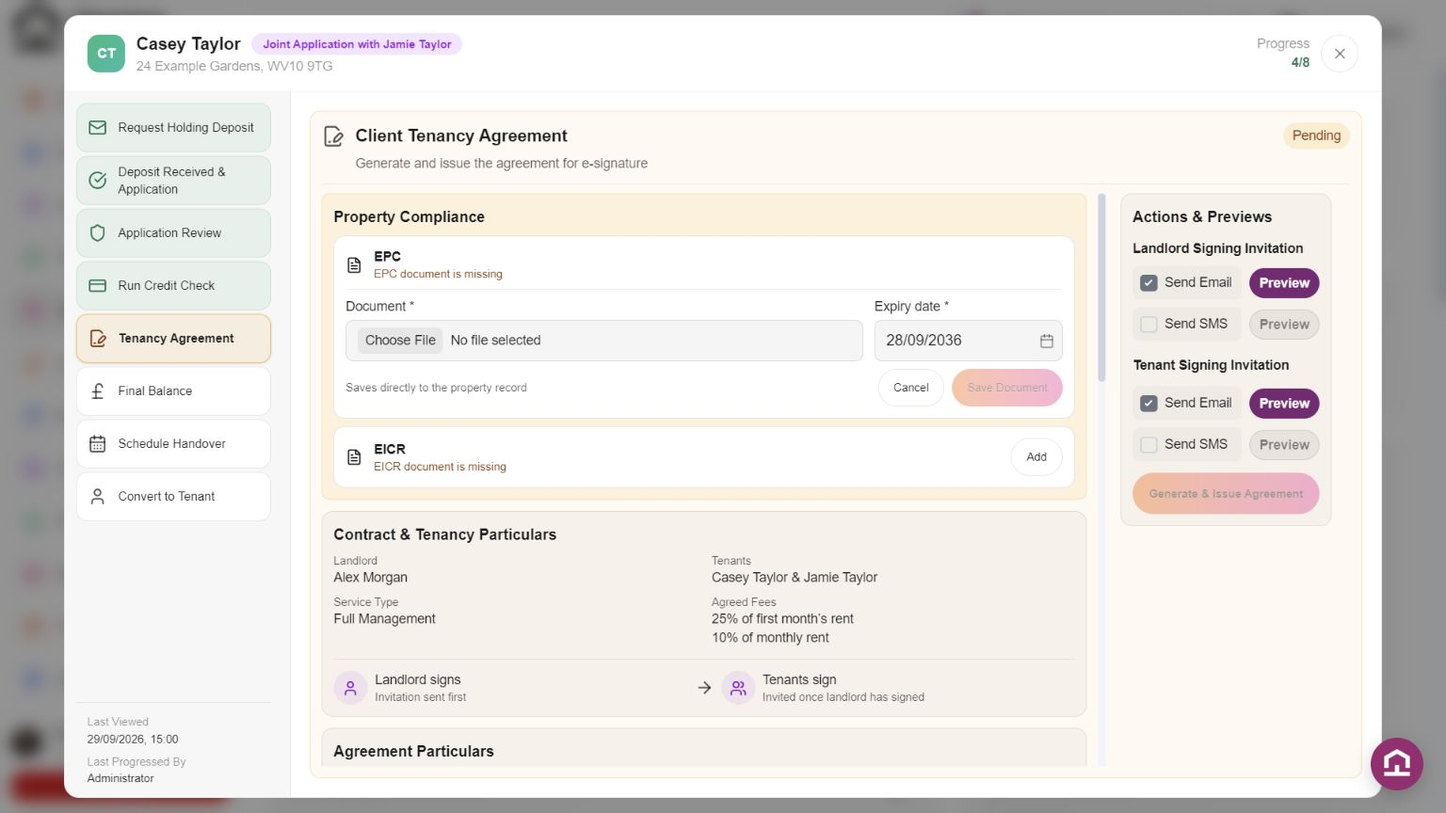
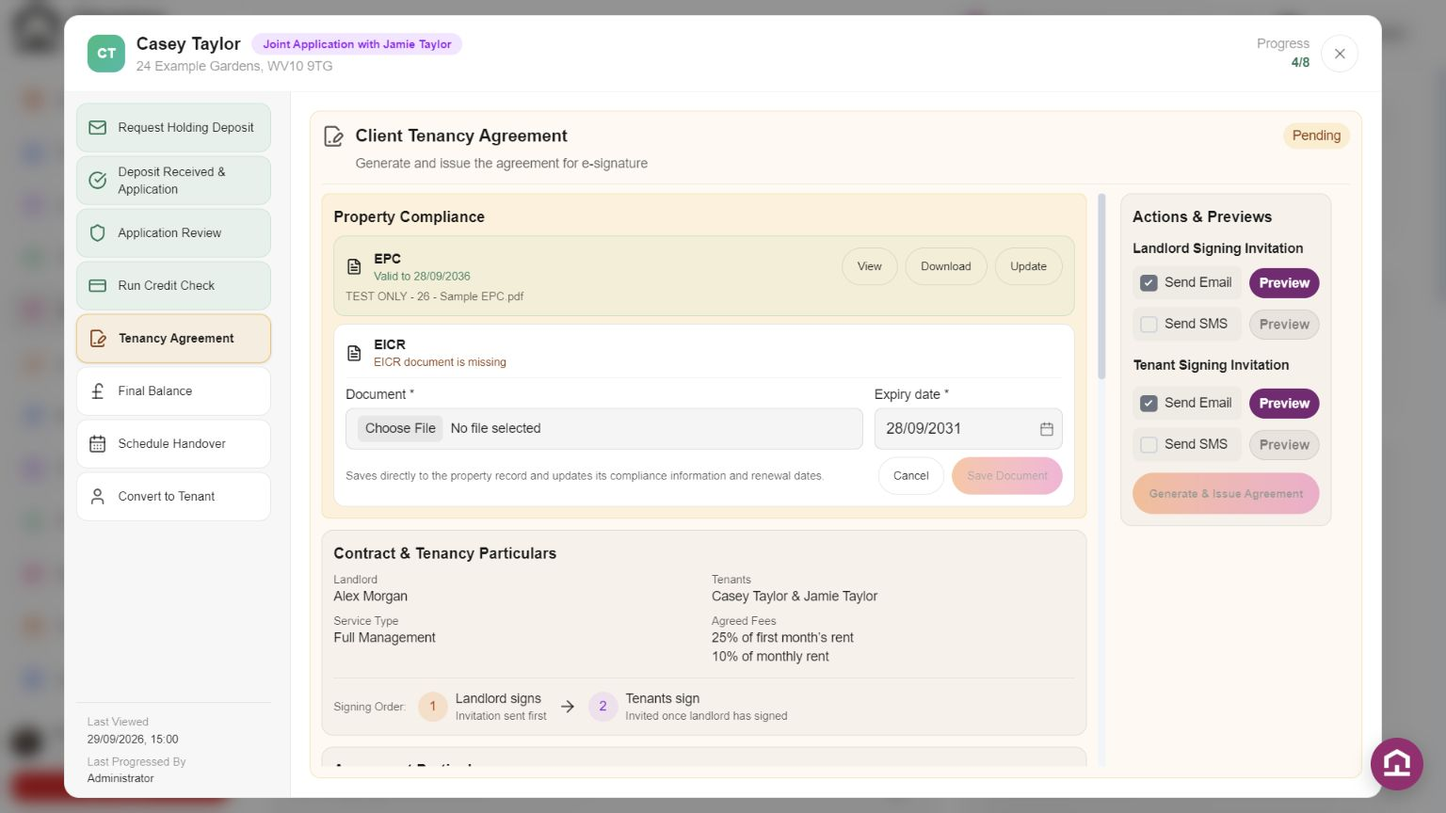
Refine onboarding agreement previews and correct portfolio payment routes

Changed region(s): [[0.2188, 0.2812, 0.75, 0.9375], [0.4375, 0.6875, 0.625, 0.9062]]

diff --git a/frontend/src/components/ui/OnboardingWizard.tsx b/frontend/src/components/ui/OnboardingWizard.tsx
@@ -1064,7 +1064,7 @@ export default function OnboardingWizard({ enquiryId, enquiry, properties, users
   return (
     <div className="fixed inset-0 bg-[var(--overlay-bg)] backdrop-blur-sm flex items-center justify-center z-50 p-4" onClick={event => { if(event.target===event.currentTarget)onClose(); }}>
       <div className="bg-[var(--bg-card)] rounded-2xl border border-[var(--border-input)] onboarding-dialog w-full max-w-[1400px] max-h-[calc(100dvh-2rem)] overflow-hidden flex flex-col" style={{height:'calc(100dvh - 2rem)'}} onClick={e => e.stopPropagation()}>
-        {serviceGate&&<div role="note" className="shrink-0 flex flex-wrap xl:flex-nowrap items-center justify-center gap-x-3 gap-y-2 px-4 py-2 bg-red-500/10 text-[13px] leading-5 text-red-700 dark:text-red-400 border-b border-red-500/20"><AlertTriangle size={18} className="shrink-0" aria-hidden="true"/><p className="min-w-0 text-center xl:whitespace-nowrap">Landlord service contract needs signing before onboarding can be completed or an AST agreement issued.</p><Link className="shrink-0 xl:ml-auto whitespace-nowrap rounded-full border border-red-500/30 bg-[var(--bg-card)] px-3 py-1.5 text-xs font-semibold hover:bg-red-500/10 focus-visible:outline-2 focus-visible:outline-offset-2 focus-visible:outline-red-600" to={`/properties/${serviceGate.propertyId}`} onClick={onClose}>Click to open the properties contract</Link></div>}
+        {serviceGate&&<div role="note" className="shrink-0 flex flex-wrap xl:flex-nowrap items-center justify-center gap-x-3 gap-y-2 px-4 py-2 bg-red-500/10 text-[13px] leading-5 text-red-700 dark:text-red-400 border-b border-red-500/20"><AlertTriangle size={18} className="shrink-0" aria-hidden="true"/><p className="min-w-0 text-center xl:whitespace-nowrap">Landlord service contract needs signing before onboarding can be completed or a tenancy agreement issued.</p><Link className="shrink-0 xl:ml-auto whitespace-nowrap rounded-full border border-red-500/30 bg-[var(--bg-card)] px-3 py-1.5 text-xs font-semibold hover:bg-red-500/10 focus-visible:outline-2 focus-visible:outline-offset-2 focus-visible:outline-red-600" to={`/properties/${serviceGate.propertyId}`} onClick={onClose}>Click to open the properties contract</Link></div>}
         {/* Header */}
         <div className="shrink-0 flex items-center gap-3 px-6 py-4 border-b border-[var(--border-subtle)]">
           <div className="w-10 h-10 shrink-0 rounded-xl bg-gradient-to-br from-emerald-500 to-teal-500 flex items-center justify-center text-white font-bold text-sm">
@@ -1144,6 +1144,7 @@ export default function OnboardingWizard({ enquiryId, enquiry, properties, users
           {/* Step 6: Tenancy Agreement */}
           <StepCard idx={5} step={steps[5]} {...stepCardProps} actions={allPreviousComplete(5) && <>
                 {agreement && agreement.status !== 'completed' && <div className="flex flex-wrap gap-2">
+                  {agreementCompliance?.agreementType==='internal'&&<p className="text-sm font-semibold">Tenant Signing Invitation</p>}
                   <DeliveryChoices email={agreementSendEmail} sms={agreementSendSms} onEmail={setAgreementSendEmail} onSms={setAgreementSendSms} previewEmail={()=>void previewAgreementEmail()} previewSms={()=>setSmsPreview(renderSmsPreview(agreementSmsMessage))}/>
 
 
@@ -1155,6 +1156,7 @@ export default function OnboardingWizard({ enquiryId, enquiry, properties, users
                 </div>}
                 {agreement&&<Button variant="outline" size="sm" disabled={saving} onClick={() => {agreementDirty.current=false;void fetchAgreement();setEditingAgreement(value => !value);}}>{editingAgreement ? 'Cancel Editing' : 'Edit Agreement'}</Button>}
 {showAgreementForm && <>                  {agreementCompliance?.agreementType==='client'&&<div className="space-y-2"><p className="text-sm font-semibold">Landlord Signing Invitation</p><DeliveryChoices email={landlordSendEmail} sms={landlordSendSms} onEmail={setLandlordSendEmail} onSms={setLandlordSendSms} previewEmail={async()=>{try{const p=await api.post(`/api/tenant-enquiries/${enquiryId}/landlord-agreement-preview`,{tenant_delivery:agreementSendEmail||agreementSendSms});setHoldingEmailPreview(p);}catch(e){setReviewError(String(e));}}} previewSms={async()=>{try{const p=await api.post(`/api/tenant-enquiries/${enquiryId}/landlord-agreement-preview`,{});setSmsPreview(p.sms);}catch(e){setReviewError(String(e));}}}/><p className="text-sm font-semibold pt-2">Tenant Signing Invitation</p></div>}
+                  {agreementCompliance?.agreementType==='internal'&&<p className="text-sm font-semibold">Tenant Signing Invitation</p>}
                   <DeliveryChoices email={agreementSendEmail} sms={agreementSendSms} onEmail={setAgreementSendEmail} onSms={setAgreementSendSms} previewEmail={()=>void previewAgreementEmail()} previewSms={()=>setSmsPreview(renderSmsPreview(agreementSmsMessage))}/>
                   <Button className="self-start" variant="gradient" size="sm" onClick={issueAgreement} disabled={saving || complianceLoading || agreementCompliance?.ready !== true || !agreementDetailsComplete}>{saving ? 'Generating...' : editingAgreement ? 'Save Changes & Notify Everyone' : 'Generate & Issue Agreement'}</Button>
 </>}</>}>
@@ -1188,16 +1190,17 @@ export default function OnboardingWizard({ enquiryId, enquiry, properties, users
                   <section aria-label="Contract & Tenancy Particulars" className="rounded-xl border border-[var(--border-input)] bg-[var(--bg-subtle)] p-3 space-y-2">
                     <h5 className="text-base font-semibold">Contract &amp; Tenancy Particulars</h5>
                     <dl className="grid grid-cols-1 sm:grid-cols-2 gap-x-4 gap-y-2 text-sm">
-                      <div><dt className="text-xs text-[var(--text-secondary)]">Landlord</dt><dd>{agreementCompliance?.landlordName||'Not recorded'}</dd></div>
+                      {agreementCompliance?.agreementType==='client'&&<div><dt className="text-xs text-[var(--text-secondary)]">Landlord</dt><dd>{agreementCompliance.landlordName||'Not recorded'}</dd></div>}
                       <div><dt className="text-xs text-[var(--text-secondary)]">{enquiry.joint_partner_id?'Tenants':'Tenant'}</dt><dd>{[name,enquiry.joint_partner_id?agreementCompliance?.jointApplicant?.name:null].filter(Boolean).join(' & ')}</dd></div>
                       <div><dt className="text-xs text-[var(--text-secondary)]">Service Type</dt><dd>{agreementCompliance?.agreementType==='internal'?'Fleming Lettings property':({let_only:'Let Only',rent_collection:'Rent Collection',full_management:'Full Management'}[agreementCompliance?.serviceType||'']||'Not recorded')}</dd></div>
                       {agreementCompliance?.agreementType==='client'&&<div><dt className="text-xs text-[var(--text-secondary)]">Agreed Fees</dt><dd>{agreementCompliance.fees?.setupPercent!=null?`${Number(agreementCompliance.fees.setupPercent).toLocaleString('en-GB')}% of first month’s rent`:'Set-up fee not recorded'}{agreementCompliance.serviceType!=='let_only'&&<span className="block">{agreementCompliance.fees?.monthlyPercent!=null?`${Number(agreementCompliance.fees.monthlyPercent).toLocaleString('en-GB')}% of monthly rent`:'Ongoing fee not recorded'}</span>}</dd></div>}
                     </dl>
                     {agreementCompliance?.agreementType==='client'&&<div aria-label="Signing process: landlord signs first, then tenants are invited to sign" className="flex flex-col sm:flex-row sm:items-center gap-3 border-t border-[var(--border-subtle)] pt-3 mt-3 text-sm">
-                      <span className="text-xs font-medium text-[var(--text-secondary)] shrink-0">Signing Order:</span><div className="flex items-center gap-2"><span className="flex h-8 w-8 shrink-0 items-center justify-center rounded-full bg-orange-500/15 text-orange-700 dark:text-orange-300" aria-hidden="true">1</span><div><span className="block font-medium">Landlord signs</span><span className="block text-xs text-[var(--text-secondary)]">Invitation sent first</span></div></div>
+                      <span className="text-sm font-semibold text-[var(--text-primary)] shrink-0">Signing Order:</span><div className="flex items-center gap-2"><span className="flex h-8 w-8 shrink-0 items-center justify-center rounded-full bg-orange-500/15 text-orange-700 dark:text-orange-300" aria-hidden="true">1</span><div><span className="block font-medium">Landlord signs</span><span className="block text-xs text-[var(--text-secondary)]">Invitation sent first</span></div></div>
                       <ArrowRight size={20} aria-hidden="true" className="ml-2 sm:ml-0 shrink-0 rotate-90 sm:rotate-0 text-[var(--text-secondary)]"/>
                       <div className="flex items-center gap-2"><span className="flex h-8 w-8 shrink-0 items-center justify-center rounded-full bg-purple-500/10 text-purple-700 dark:text-purple-300" aria-hidden="true">2</span><div><span className="block font-medium">{enquiry.joint_partner_id?'Tenants sign':'Tenant signs'}</span><span className="block text-xs text-[var(--text-secondary)]">Invited once landlord has signed</span></div></div>
                     </div>}
+                    {agreementCompliance?.agreementType==='internal'&&<p role="note" className="rounded-lg border border-purple-500/15 bg-purple-500/5 px-3 py-2.5 text-sm leading-relaxed">For Fleming Lettings’ own properties, the initial rental payment, holding deposit and future rent are paid directly into Fleming Lettings’ business bank account, not the client money account.</p>}
                     {!agreementServiceComplete&&<p className="text-sm text-[var(--onboarding-warning)]">Set the service type on the property before generating the agreement.</p>}
                   </section>
                   <section aria-label="Agreement Particulars" className="rounded-xl border border-[var(--border-input)] bg-[var(--bg-subtle)] p-3 space-y-3"><h5 className="text-base font-semibold">Agreement Particulars</h5>

diff --git a/frontend/src/components/ClientAgreementDetails.tsx b/frontend/src/components/ClientAgreementDetails.tsx
@@ -10,15 +10,15 @@ type State={landlordId:number;isCompany:boolean;defaults:Details;details:Details
 const emptyAccount:Account={accountName:'',sortCode:'',accountNumber:'',bankName:''};
 const accountsMatch=(a:Account,b:Account|null)=>!!b&&a.accountName.trim()===b.accountName.trim()&&a.sortCode.replace(/\D/g,'')===b.sortCode.replace(/\D/g,'')&&a.accountNumber===b.accountNumber;
 const validAccount=(account:Account)=>!!account.accountName.trim()&&/^\d{6}$/.test(account.sortCode.replace(/\D/g,''))&&/^\d{8}$/.test(account.accountNumber);
-const defaultInstructions=(serviceType:string)=>serviceType==='let_only'?'Initial rental payment and holding deposit is paid into Fleming Lettings company account — not our client money account. Future payments will then be paid directly to the Landlord’s nominated account below.':'Initial rental payment and holding deposit is paid into Fleming Lettings client money account. Future payments continue to be paid into the client money account.';
+const defaultInstructions=(serviceType:string)=>serviceType==='let_only'?'Initial rental payment and holding deposit is paid into Fleming Lettings client money account. Future payments will then be paid directly to the Landlord’s nominated account below.':'Initial rental payment and holding deposit is paid into Fleming Lettings client money account. Future payments continue to be paid into the client money account.';
 
 export default function ClientAgreementDetails({enquiryId,onReady}:{enquiryId:number;onReady:(ready:boolean)=>void}){
  const dirty=useRef(false),record=useRef(enquiryId),api=useApi();
  const [state,setState]=useState<State|null>(null),[details,setDetails]=useState<Details|null>(null),[saved,setSaved]=useState(false),[busy,setBusy]=useState(false),[error,setError]=useState('');
  const [account,setAccount]=useState<Account>(emptyAccount),[paymentConfirmed,setPaymentConfirmed]=useState(false),[editingAccount,setEditingAccount]=useState(false),[confirmOverride,setConfirmOverride]=useState(false),[overrideChecked,setOverrideChecked]=useState(false);
  const [sameServiceAddress,setSameServiceAddress]=useState(true);
- const [paymentInstructions,setPaymentInstructions]=useState(''),[showCompanyAccounts,setShowCompanyAccounts]=useState(false);
- const load=(value:State)=>{setState(value);setDetails({...value.details,bankAccountName:'',bankSortCode:'',bankAccountNumber:''});setSameServiceAddress(value.details.serviceAddress===value.details.landlordAddress);setAccount(value.paymentAccount||value.suggestedPaymentAccount||emptyAccount);setPaymentInstructions(value.paymentInstructions||defaultInstructions(value.serviceType));setPaymentConfirmed(value.paymentConfirmed);setEditingAccount(false);setSaved(value.saved);onReady(value.ready&&value.saved);};
+ const [showCompanyAccounts,setShowCompanyAccounts]=useState(false);
+ const load=(value:State)=>{setState(value);setDetails({...value.details,bankAccountName:'',bankSortCode:'',bankAccountNumber:''});setSameServiceAddress(value.details.serviceAddress===value.details.landlordAddress);setAccount(value.paymentAccount||value.suggestedPaymentAccount||emptyAccount);setPaymentConfirmed(value.paymentConfirmed);setEditingAccount(false);setSaved(value.saved);onReady(value.ready&&value.saved);};
  useEffect(()=>{let active=true;if(record.current!==enquiryId){dirty.current=false;record.current=enquiryId;}if(!dirty.current)onReady(false);api.get(`/api/tenant-enquiries/${enquiryId}/client-agreement-details`).then(value=>{if(active&&!dirty.current)load(value);}).catch(e=>{if(active)setError(String(e));});return()=>{active=false;};
  // eslint-disable-next-line react-hooks/exhaustive-deps
  },[api,enquiryId,onReady]);
@@ -27,7 +27,7 @@ export default function ClientAgreementDetails({enquiryId,onReady}:{enquiryId:nu
  const refresh=async()=>{setBusy(true);try{const value=await api.get(`/api/tenant-enquiries/${enquiryId}/client-agreement-details`);setState(value);setDetails(value.defaults);setSameServiceAddress(value.defaults.serviceAddress===value.defaults.landlordAddress);dirty.current=true;setSaved(false);onReady(false);setError('');}catch(e){setError(String(e));}finally{setBusy(false);}};
  const save=async(confirmPayment=paymentConfirmed,overrideApproved=false)=>{
   if(!details)return;setBusy(true);setError('');
-  try{const value=await api.put(`/api/tenant-enquiries/${enquiryId}/client-agreement-details`,{...details,payment_account:account,payment_instructions:paymentInstructions,payment_confirmed:confirmPayment,payment_override_approved:overrideApproved||(paymentConfirmed&&!accountsMatch(account,state?.suggestedPaymentAccount||null))});dirty.current=false;load(value);setConfirmOverride(false);}
+  try{const value=await api.put(`/api/tenant-enquiries/${enquiryId}/client-agreement-details`,{...details,payment_account:account,payment_confirmed:confirmPayment,payment_override_approved:overrideApproved||(paymentConfirmed&&!accountsMatch(account,state?.suggestedPaymentAccount||null))});dirty.current=false;load(value);setConfirmOverride(false);}
   catch(e){setError(e instanceof Error?e.message:String(e));}finally{setBusy(false);}
  };
  const confirmAccount=()=>{if(!state)return;if(!accountsMatch(account,state.suggestedPaymentAccount)){setOverrideChecked(false);setConfirmOverride(true);}else void save(true);};
@@ -48,9 +48,8 @@ export default function ClientAgreementDetails({enquiryId,onReady}:{enquiryId:nu
    </fieldset>}
   </section>
   <section aria-label="Payment Account Confirmation" className={`rounded-xl border p-3 space-y-3 ${paymentConfirmed?'border-emerald-500/25 bg-emerald-500/5':'border-[var(--border-input)] bg-[var(--bg-subtle)]'}`}>
-   <div className="flex items-center justify-between gap-2"><h5 className="text-base font-semibold">Payment Account Confirmation</h5>{paymentConfirmed&&<CheckCircle size={18} className="text-[var(--onboarding-success)]"/>}</div>
-   <label className="block text-sm">Payment Instructions<textarea aria-label="Payment Instructions" rows={4} maxLength={2000} disabled={busy||!state} value={paymentInstructions} onChange={e=>{dirty.current=true;setPaymentInstructions(e.target.value);setPaymentConfirmed(false);onReady(false);}} className="mt-1 block w-full resize-y rounded-lg border border-[var(--border-input)] bg-[var(--bg-input)] px-3 py-2 text-sm leading-relaxed"/></label>
-   <div className="flex justify-end"><Button size="sm" variant="outline" disabled={!state?.companyAccounts} onClick={()=>setShowCompanyAccounts(true)}>View Company Account Details</Button></div>
+   <div className="flex flex-wrap items-center justify-between gap-2"><h5 className="text-base font-semibold flex items-center gap-2">Payment Account Confirmation{paymentConfirmed&&<CheckCircle size={18} className="text-[var(--onboarding-success)]"/>}</h5><button type="button" className="ml-auto rounded-lg bg-[#742878] px-3 py-2 text-xs font-medium text-white hover:bg-[#632268] focus-visible:outline-2 focus-visible:outline-offset-2 focus-visible:outline-purple-500 disabled:opacity-40" disabled={!state?.companyAccounts} onClick={()=>setShowCompanyAccounts(true)}>View Company Account Details</button></div>
+   {state&&<p role="note" className="rounded-lg border border-purple-500/15 bg-purple-500/5 px-3 py-2.5 text-sm leading-relaxed">{defaultInstructions(state.serviceType)}</p>}
    <fieldset disabled={busy||!editingAccount} className="grid grid-cols-1 sm:grid-cols-2 gap-3">
     <Input label="Account Name *" value={account.accountName} onChange={v=>changeAccount('accountName',v)}/><Input label="Bank Name" value={account.bankName} onChange={v=>changeAccount('bankName',v)}/><Input label="Sort Code *" value={account.sortCode} onChange={v=>changeAccount('sortCode',v.replace(/\D/g,'').slice(0,6).match(/.{1,2}/g)?.join('-')||'')}/><Input label="Account Number *" value={account.accountNumber} onChange={v=>changeAccount('accountNumber',v.replace(/\D/g,'').slice(0,8))}/>
    </fieldset>

diff --git a/backend/src/client-agreement-details.ts b/backend/src/client-agreement-details.ts
@@ -45,7 +45,7 @@ export async function clientAgreementContext(enquiryId:number){
  const paymentOverride=Boolean(paymentAccount&&stored?.paymentConfirmation?.override);
  const defaultAccountApproved=paymentRoute!=='landlord'||Boolean(sourceBank?.approved_at&&sourceBank?.landlord_approved_at);
  const paymentReady=Boolean(paymentAccount&&(paymentOverride||defaultAccountApproved));
- return {propertyId:enquiry.service_property_id,serviceAgreementSigned:!!service,serviceAgreementReady:!!enquiry.service_ready,servicePaymentRoute:service?.payment_route,serviceSetupFee:service?.setup_fee,serviceMonthlyFee:service?.monthly_fee,bankOverride:hasOverride,enquiryId:canonicalId,landlordId:enquiry.landlord_id,enabled:enquiry.landlord_type!=='internal',serviceType:enquiry.service_type,isCompany,defaults,details,directors,bank:bank||null,saved:matchingRecord,paymentRoute,suggestedPaymentAccount,paymentAccount:paymentAccount||suggestedPaymentAccount,paymentConfirmed:paymentReady,paymentOverride,defaultAccountApproved,paymentInstructions:matchingRecord&&stored?.paymentInstructions||defaultAgreementPaymentInstructions(enquiry.service_type),companyAccounts:{business:company.operatingAccount,clientMoney:company.clientAccount,cmpNumber:company.cmp.number},ready:matchingRecord&&!validateClientDetails(details,isCompany)&&paymentReady};
+ return {propertyId:enquiry.service_property_id,serviceAgreementSigned:!!service,serviceAgreementReady:!!enquiry.service_ready,servicePaymentRoute:service?.payment_route,serviceSetupFee:service?.setup_fee,serviceMonthlyFee:service?.monthly_fee,bankOverride:hasOverride,enquiryId:canonicalId,landlordId:enquiry.landlord_id,enabled:enquiry.landlord_type!=='internal',serviceType:enquiry.service_type,isCompany,defaults,details,directors,bank:bank||null,saved:matchingRecord,paymentRoute,suggestedPaymentAccount,paymentAccount:paymentAccount||suggestedPaymentAccount,paymentConfirmed:paymentReady,paymentOverride,defaultAccountApproved,paymentInstructions:defaultAgreementPaymentInstructions(enquiry.service_type),companyAccounts:{business:company.operatingAccount,clientMoney:company.clientAccount,cmpNumber:company.cmp.number},ready:matchingRecord&&!validateClientDetails(details,isCompany)&&paymentReady};
 }
 export function registerClientAgreementDetails(app:Express){
  app.get('/api/landlords/:id/bank-details',authMiddleware,requirePermission('staff'),async(req,res)=>{
@@ -72,8 +72,6 @@ export function registerClientAgreementDetails(app:Express){
   const state=await clientAgreementContext(Number(req.params.id));if(!state?.enabled)return res.status(409).json({error:'Client details require an external landlord'});
   const details=Object.fromEntries(Object.keys(state.defaults).map(key=>[key,String(req.body[key]??'').trim().slice(0,1000)])) as ClientDetails;
   const error=validateClientDetails(details,state.isCompany);if(error)return res.status(400).json({error});
-  const paymentInstructions=String(req.body.payment_instructions??state.paymentInstructions).trim();
-  if(!paymentInstructions||paymentInstructions.length>2000)return res.status(400).json({error:'Enter payment instructions of up to 2,000 characters'});
   if(details.bankAccountName&&req.body.bank_override_approved!==true)return res.status(400).json({error:'Confirm the alternative bank details for this tenancy'});
   let paymentConfirmation=null;
   if(req.body.payment_confirmed===true){
@@ -84,7 +82,7 @@ export function registerClientAgreementDetails(app:Express){
    paymentConfirmation={account,override,serviceType:state.serviceType,confirmedAt:new Date().toISOString(),confirmedBy:req.user.id};
   }
   const client=await pool.connect();try{await client.query('BEGIN');
-   await client.query('UPDATE tenant_enquiries SET client_agreement_details=$1,updated_at=NOW() WHERE id=$2',[JSON.stringify({landlordId:state.landlordId,propertyId:state.propertyId,details,paymentConfirmation,paymentInstructions,bankOverrideApprovedAt:details.bankAccountName?new Date().toISOString():null,bankOverrideApprovedBy:details.bankAccountName?req.user.id:null}),state.enquiryId]);
+   await client.query('UPDATE tenant_enquiries SET client_agreement_details=$1,updated_at=NOW() WHERE id=$2',[JSON.stringify({landlordId:state.landlordId,propertyId:state.propertyId,details,paymentConfirmation,bankOverrideApprovedAt:details.bankAccountName?new Date().toISOString():null,bankOverrideApprovedBy:details.bankAccountName?req.user.id:null}),state.enquiryId]);
    await client.query("INSERT INTO audit_log(user_id,user_email,action,entity_type,entity_id,changes) VALUES($1,$2,'client_agreement_details_saved','tenant_enquiry',$3,$4)",[req.user.id,req.user.email,state.enquiryId,JSON.stringify({landlord_id:state.landlordId,is_company:state.isCompany,payment_confirmed:!!paymentConfirmation,payment_override:paymentConfirmation?.override||false,account_ending:paymentConfirmation?.account.accountNumber.slice(-4)})]);await client.query('COMMIT');
   }catch(error){await client.query('ROLLBACK');throw error;}finally{client.release();}
   res.json(await clientAgreementContext(state.enquiryId));

diff --git a/backend/src/tenancy-template.ts b/backend/src/tenancy-template.ts
@@ -14,6 +14,26 @@ let queue: Promise<unknown> = Promise.resolve();
 let pending = 0;
 const xmlText = (value: string) => value.replace(/&/g, '&amp;').replace(/</g, '&lt;').replace(/>/g, '&gt;').replace(/"/g, '&quot;').replace(/'/g, '&apos;').replace(/\n/g, '</w:t><w:br/><w:t xml:space="preserve">');
 
+/** Keep account labels and numbers together, including agreement-only overrides. */
+export function prepareClientPaymentTemplate(xml:string,serviceType:string|null|undefined):string {
+ return xml.replace(/<w:tbl(?:\s[^>]*)?>[\s\S]*?<\/w:tbl>/g,table=>{
+  let initial=table.includes('{{CLIENT_SORT_CODE}}');
+  if(!initial&&!table.includes('{{BANK_SORT_CODE}}'))return table;
+  return table.replace(/<w:tr(?:\s[^>]*)?>[\s\S]*?<\/w:tr>/g,row=>{
+   if(row.includes('{{BANK_SORT_CODE}}'))initial=false;
+   if(row.includes('{{CLIENT_SORT_CODE}}'))initial=true;
+   const text=row.replace(/<[^>]+>/g,'');
+   const token=text.startsWith('Account Name:')?(initial?'INITIAL_ACCOUNT_NAME':'BANK_ACCOUNT_NAME'):text.startsWith('Bank Name:')?(initial?'INITIAL_BANK_NAME':'BANK_NAME'):null;
+   if(!token)return row;
+   let cell=0;
+   return row.replace(/<w:tc(?:\s[^>]*)?>[\s\S]*?<\/w:tc>/g,value=>{
+    if(cell++!==1)return value;let first=true;
+    return value.replace(/(<w:t(?:\s[^>]*)?>)[\s\S]*?(<\/w:t>)/g,(_whole,start,end)=>{const text=first?`{{${token}}}`:'';first=false;return start+text+end;});
+   });
+  });
+ });
+}
+
 export function formalAgreementDate(d:Date):string {
   const day=Number(new Intl.DateTimeFormat('en-GB',{day:'numeric',timeZone:'Europe/London'}).format(d));
   const suffix=day%100>=11&&day%100<=13?'th':({1:'st',2:'nd',3:'rd'} as Record<number,string>)[day%10]||'th';
@@ -159,13 +179,14 @@ export async function generateSourceTenancyPdf(input: TenancyAgreementPdfInput):
       const zip = new PizZip(template);
       const date = formalAgreementDate;
       const names = input.tenants.map(t => t.name).join(' and ');
+      const initialAccount=input.companySettings?.clientAccount||FLEMING_CLIENT_MONEY_ACCOUNT;
       const values: Record<string, string> = {
         LANDLORD_NAME:input.landlord.name,
         LANDLORD_IDENTITY:`${input.landlord.name}, of ${input.landlord.address || ''}${input.landlord.companyNumber ? ', Company number: '+input.landlord.companyNumber : ''}`,
         LANDLORD_SIGNATORY:input.landlord.signingName||input.landlord.name,
         LANDLORD_EMAIL:input.landlord.email||'',LANDLORD_PHONE:input.landlord.phone||'',
         SERVICE_ADDRESS:input.landlord.serviceAddress||input.landlord.address||'',EMERGENCY_CONTACT:input.landlord.emergencyContact||'',
-        CLIENT_SORT_CODE:(input.companySettings?.clientAccount||FLEMING_CLIENT_MONEY_ACCOUNT).sortCode,CLIENT_ACCOUNT_NUMBER:(input.companySettings?.clientAccount||FLEMING_CLIENT_MONEY_ACCOUNT).accountNumber,BANK_ACCOUNT_NAME:input.bankDetails.accountName,BANK_NAME:input.bankDetails.bankName||'Not supplied',
+        CLIENT_SORT_CODE:initialAccount.sortCode,CLIENT_ACCOUNT_NUMBER:initialAccount.accountNumber,INITIAL_ACCOUNT_NAME:initialAccount.accountName,INITIAL_BANK_NAME:initialAccount.bankName||'Not supplied',BANK_ACCOUNT_NAME:input.bankDetails.accountName,BANK_NAME:input.bankDetails.bankName||'Not supplied',
         BANK_SORT_CODE:input.bankDetails.sortCode,BANK_ACCOUNT_NUMBER:input.bankDetails.accountNumber,
         HOLDING_DEPOSIT:Number(input.holdingDeposit||0).toLocaleString('en-GB',{minimumFractionDigits:2}),DEPOSIT_SCHEME:input.depositScheme||'',
         AGREEMENT_DATE: date(input.tenancyStartDate), START_DATE: date(input.tenancyStartDate),
@@ -181,6 +202,7 @@ export async function generateSourceTenancyPdf(input: TenancyAgreementPdfInput):
         GAS_ACKNOWLEDGEMENT: input.hasGas ? 'Gas Safety Certificate' : 'Gas Safety Certificate: not applicable (no gas connection)',
       };
       let xml = zip.file('word/document.xml')!.asText();
+      if(isClient)xml=prepareClientPaymentTemplate(xml,input.serviceType);
       xml=isClient?formatClientContractLayout(xml):formatContractLayout(xml);
       xml=formatAptPresentation(xml,input.hasGas);
       if(input.companySettings){xml=companyTemplateText(xml,input.companySettings,isClient?'client':'internal');await applyCompanyImages(zip,input.companySettings,!isClient);}

diff --git a/frontend/src/components/AgreementComplianceDocuments.tsx b/frontend/src/components/AgreementComplianceDocuments.tsx
@@ -1,5 +1,5 @@
 import {useState} from 'react';
-import {CheckCircle,FileText} from 'lucide-react';
+import {CheckCircle,FileText,Eye,Download,RefreshCw,Plus} from 'lucide-react';
 import {useAuth} from '../context/AuthContext';
 import {Button,DatePicker} from './ui';
 
@@ -32,8 +32,8 @@ export default function AgreementComplianceDocuments({propertyId,enquiryId,items
      <FileText size={18} className="shrink-0"/>
      <div className="min-w-0 flex-1"><h6 className="text-sm font-semibold">{item.label}</h6><p className={`text-xs ${item.ready?'text-[var(--onboarding-success)]':'text-[var(--onboarding-warning)]'}`}>{item.ready?(item.expiryDate?`Valid to ${new Date(`${item.expiryDate.slice(0,10)}T00:00:00`).toLocaleDateString('en-GB')}`:'Saved to property'):item.reason}</p></div>
      {!isEditing&&<div className="flex flex-wrap gap-2">
-      {item.document&&<><Button size="sm" variant="outline" onClick={()=>onView(item.document!.id,item.document!.original_name)}>View</Button><Button size="sm" variant="outline" onClick={()=>onDownload(item.document!.id,item.document!.original_name)}>Download</Button></>}
-      {user?.role!=='viewer'&&<Button size="sm" variant="outline" disabled={busy} onClick={()=>{setEditing(item.docType);setExpiry(item.expiryDate?.slice(0,10)||'');setFile(null);setError('');setNotice('');}}>{item.document?'Update':'Add'}</Button>}
+      {item.document&&<><Button size="sm" variant="outline" className="gap-1.5 !min-h-9 !text-[13px]" onClick={()=>onView(item.document!.id,item.document!.original_name)}><Eye size={14}/>View</Button><Button size="sm" variant="outline" className="gap-1.5 !min-h-9 !text-[13px]" onClick={()=>onDownload(item.document!.id,item.document!.original_name)}><Download size={14}/>Download</Button></>}
+      {user?.role!=='viewer'&&<Button size="sm" variant="outline" className="gap-1.5 !min-h-9 !text-[13px]" disabled={busy} onClick={()=>{setEditing(item.docType);setExpiry(item.expiryDate?.slice(0,10)||'');setFile(null);setError('');setNotice('');}}>{item.document?<RefreshCw size={14}/>:<Plus size={14}/>} {item.document?'Update':'Add'}</Button>}
      </div>}
     </div>
     {item.document&&<p className="mt-1 text-xs text-[var(--text-secondary)] break-words">{item.document.original_name}</p>}

diff --git a/backend/src/whatsapp-feedback.test.ts b/backend/src/whatsapp-feedback.test.ts
@@ -2,6 +2,7 @@ import fs from 'fs';
 import path from 'path';
 import { describe, expect, it } from 'vitest';
 
+const creditPanel = fs.readFileSync(path.resolve(__dirname, '../../frontend/src/components/CreditCheckPanel.tsx'), 'utf8');
 const apiSource = fs.readFileSync(path.resolve(__dirname, 'index-pg.ts'), 'utf8');
 const wizardSource = fs.readFileSync(path.resolve(__dirname, '../../frontend/src/components/ui/OnboardingWizard.tsx'), 'utf8');
 const tenantDetailSource = fs.readFileSync(path.resolve(__dirname, '../../frontend/src/pages/TenantDetail.tsx'), 'utf8');
@@ -76,7 +77,7 @@ describe('31 August CRM feedback regressions', () => {
     expect(wizardSource).toContain('Tenancy Agreement for Fleming Lettings Properties');
     expect(wizardSource).not.toMatch(/\bAST\b/);
     expect(wizardSource).toContain('AgreementComplianceDocuments');
-    expect(wizardSource).toContain('Upload Credit Report *');
+    expect(creditPanel).toContain('Upload Credit Report *');
     expect(wizardSource).not.toContain('Editable tenant email preview');
     expect(wizardSource).toContain('<DatePicker label="Tenancy Start *"');
   });
@@ -101,8 +102,10 @@ describe('31 August CRM feedback regressions', () => {
 
   it('shows completed payment and credit report evidence without another upload prompt', () => {
     expect(wizardSource).toContain('balance_payment_received_at');
-    expect(wizardSource).toContain('creditReportDocument.original_name');
-    expect(wizardSource).toContain('downloadDocument(creditReportDocument.id');
+    expect(wizardSource).toContain('<CreditCheckPanel');
+    expect(creditPanel).toContain('report.original_name');
+    expect(creditPanel).toContain('const showForm=!completed||!report||replacing;');
+    expect(creditPanel).toContain('(download?onDownload:onView)(report.id,report.original_name)');
   });
 
   it('provides linked, scrollable notes and hides finished onboarding checklists', () => {

diff --git a/backend/src/tenancy-payment-template.test.ts b/backend/src/tenancy-payment-template.test.ts
@@ -1,0 +1,23 @@
+import {describe,it,expect} from 'vitest';
+import fs from 'node:fs';
+import path from 'node:path';
+import PizZip from 'pizzip';
+import {prepareClientPaymentTemplate} from './tenancy-template';
+const source=(file:string)=>new PizZip(fs.readFileSync(path.join(__dirname,'agreement-assets',file))).file('word/document.xml')!.asText();
+describe('APT payment instructions and bank tables',()=>{
+ it.each(['full_management','rent_collection'])('keeps all %s payments in client money and applies the confirmed account name and bank',service=>{
+  const xml=prepareClientPaymentTemplate(source('client-rent-collection-aug26.docx'),service);
+  const text=xml.replace(/<[^>]+>/g,'');
+  expect(text).toContain('All rent, including the initial payment of rent');expect(text).toContain('at its client money account.');
+  expect(text).toContain('This is the same account you paid your holding deposit into');
+  expect(text).toContain('{{BANK_ACCOUNT_NAME}}');expect(text).toContain('{{BANK_NAME}}');expect(text).toContain('{{BANK_ACCOUNT_NUMBER}}');
+ });
+ it('uses the client money account initially for let-only and the separately confirmed landlord account afterwards',()=>{
+  const xml=prepareClientPaymentTemplate(source('client-let-only-aug26.docx'),'let_only');
+  const text=xml.replace(/<[^>]+>/g,'');
+  expect(text).toContain('at its client money account.');expect(text).not.toContain('at its company account.');
+  expect(text).toContain('{{INITIAL_ACCOUNT_NAME}}');expect(text).toContain('{{INITIAL_BANK_NAME}}');
+  expect(text).toContain('All subsequent rent payments must be paid directly to the Landlord');
+  expect(text).toContain('{{BANK_ACCOUNT_NAME}}');expect(text).toContain('{{BANK_ACCOUNT_NUMBER}}');
+ });
+});

diff --git a/backend/src/agreement-payment-confirmation.test.ts b/backend/src/agreement-payment-confirmation.test.ts
@@ -6,6 +6,9 @@ describe('agreement payment confirmation',()=>{
  it.each(['full_management','rent_collection'])('directs all %s payments to client money, with only agreed fees transferred to business',service=>{
   expect(defaultAgreementPaymentInstructions(service)).toBe('Initial rental payment and holding deposit is paid into Fleming Lettings client money account. Future payments continue to be paid into the client money account.');
  });
+ it('directs let-only initial payments to client money and future rent to the landlord',()=>{
+  expect(defaultAgreementPaymentInstructions('let_only')).toBe('Initial rental payment and holding deposit is paid into Fleming Lettings client money account. Future payments will then be paid directly to the Landlord’s nominated account below.');
+ });
  it('selects Fleming client money for rent collection and full management and landlord details for let only',()=>{
   expect(resolvePaymentRoute('client','full_management')).toBe('fleming_client_money');expect(resolvePaymentRoute('client','rent_collection')).toBe('fleming_client_money');
   expect(resolvePaymentRoute('client','let_only')).toBe('landlord');expect(bankDetailsForRoute('landlord',account)).toEqual(account);

diff --git a/backend/src/september-five-feedback.test.ts b/backend/src/september-five-feedback.test.ts
@@ -2,6 +2,7 @@ import fs from 'fs';
 import path from 'path';
 import { describe, expect, it } from 'vitest';
 
+const deliveryChoices = fs.readFileSync(path.resolve(__dirname, '../../frontend/src/components/ui/DeliveryChoices.tsx'), 'utf8');
 const backend = fs.readFileSync(path.resolve(__dirname, 'index-pg.ts'), 'utf8');
 const database = fs.readFileSync(path.resolve(__dirname, 'db-pg.ts'), 'utf8');
 const propertyDetail = fs.readFileSync(path.resolve(__dirname, '../../frontend/src/pages/PropertyDetail.tsx'), 'utf8');
@@ -116,8 +117,8 @@ describe('5 September CRM feedback', () => {
     expect(onboardingWizard).not.toContain('Editable email message');
     expect(onboardingWizard).not.toContain('Editable SMS preview');
     expect(onboardingWizard).toContain('previewHoldingEmail');
-    expect(onboardingWizard).toContain('Send Email');
-    expect(onboardingWizard).toContain('Send SMS');
+    expect(deliveryChoices).toContain('Send Email');
+    expect(deliveryChoices).toContain('Send SMS');
     expect(backend).toContain('req.body.email_message');
     expect(backend).toContain('req.body.sms_message');
   });

diff --git a/backend/src/september-four-feedback.test.ts b/backend/src/september-four-feedback.test.ts
@@ -2,6 +2,7 @@ import fs from 'fs';
 import path from 'path';
 import { describe, expect, it } from 'vitest';
 
+const deliveryChoices = fs.readFileSync(path.resolve(__dirname, '../../frontend/src/components/ui/DeliveryChoices.tsx'), 'utf8');
 const backend = fs.readFileSync(path.resolve(__dirname, 'index-pg.ts'), 'utf8');
 const wizard = fs.readFileSync(path.resolve(__dirname, '../../frontend/src/components/ui/OnboardingWizard.tsx'), 'utf8');
 const tenantDetail = fs.readFileSync(path.resolve(__dirname, '../../frontend/src/pages/TenantDetail.tsx'), 'utf8');
@@ -23,8 +24,8 @@ describe('4 September CRM feedback', () => {
   });
 
   it('supports holding-deposit SMS previews, the supplied wording, and stage progression', () => {
-    expect(wizard).toContain('Preview Email');
-    expect(wizard).toContain('Send SMS');
+    expect(deliveryChoices).toContain('Preview Email');
+    expect(deliveryChoices).toContain('Send SMS');
     expect(wizard).toContain('setActiveStep(2)');
     expect(backend).toContain('we are pleased to confirm receipt of your holding deposit payment');
   });

diff --git a/backend/src/agreement-payment-confirmation.ts b/backend/src/agreement-payment-confirmation.ts
@@ -20,5 +20,5 @@ export function confirmedAgreementPayment(saved:any,serviceType:string,suggested
  }catch{return null;}
 }
 export function defaultAgreementPaymentInstructions(serviceType:string|null|undefined):string {
- return serviceType==='let_only'?'Initial rental payment and holding deposit is paid into Fleming Lettings company account — not our client money account. Future payments will then be paid directly to the Landlord’s nominated account below.':'Initial rental payment and holding deposit is paid into Fleming Lettings client money account. Future payments continue to be paid into the client money account.';
+ return serviceType==='let_only'?'Initial rental payment and holding deposit is paid into Fleming Lettings client money account. Future payments will then be paid directly to the Landlord’s nominated account below.':'Initial rental payment and holding deposit is paid into Fleming Lettings client money account. Future payments continue to be paid into the client money account.';
 }

diff --git a/backend/src/september-seven-feedback.test.ts b/backend/src/september-seven-feedback.test.ts
@@ -3,6 +3,7 @@ import path from 'path';
 import { describe, expect, it } from 'vitest';
 
 const read = (relative: string) => fs.readFileSync(path.resolve(__dirname, relative), 'utf8');
+const deliveryChoices = fs.readFileSync(path.resolve(__dirname, '../../frontend/src/components/ui/DeliveryChoices.tsx'), 'utf8');
 const backend = read('index-pg.ts');
 const database = read('db-pg.ts') + read('../migrations/0010_existing_tenant_links_and_addresses.sql');
 const pdf = read('tenancy-agreement-pdf.ts');
@@ -100,7 +101,7 @@ describe('7 September CRM feedback', () => {
   });
 
   it('previews the real branded agreement and final-balance emails', () => {
-    expect(wizard).toContain('Preview Email');
+    expect(deliveryChoices).toContain('Preview Email');
     expect(wizard).toContain('previewOnly');
     expect(backend).toContain("tenancy-agreement/email-preview");
     expect(backend).toContain("request-balance/email-preview");
